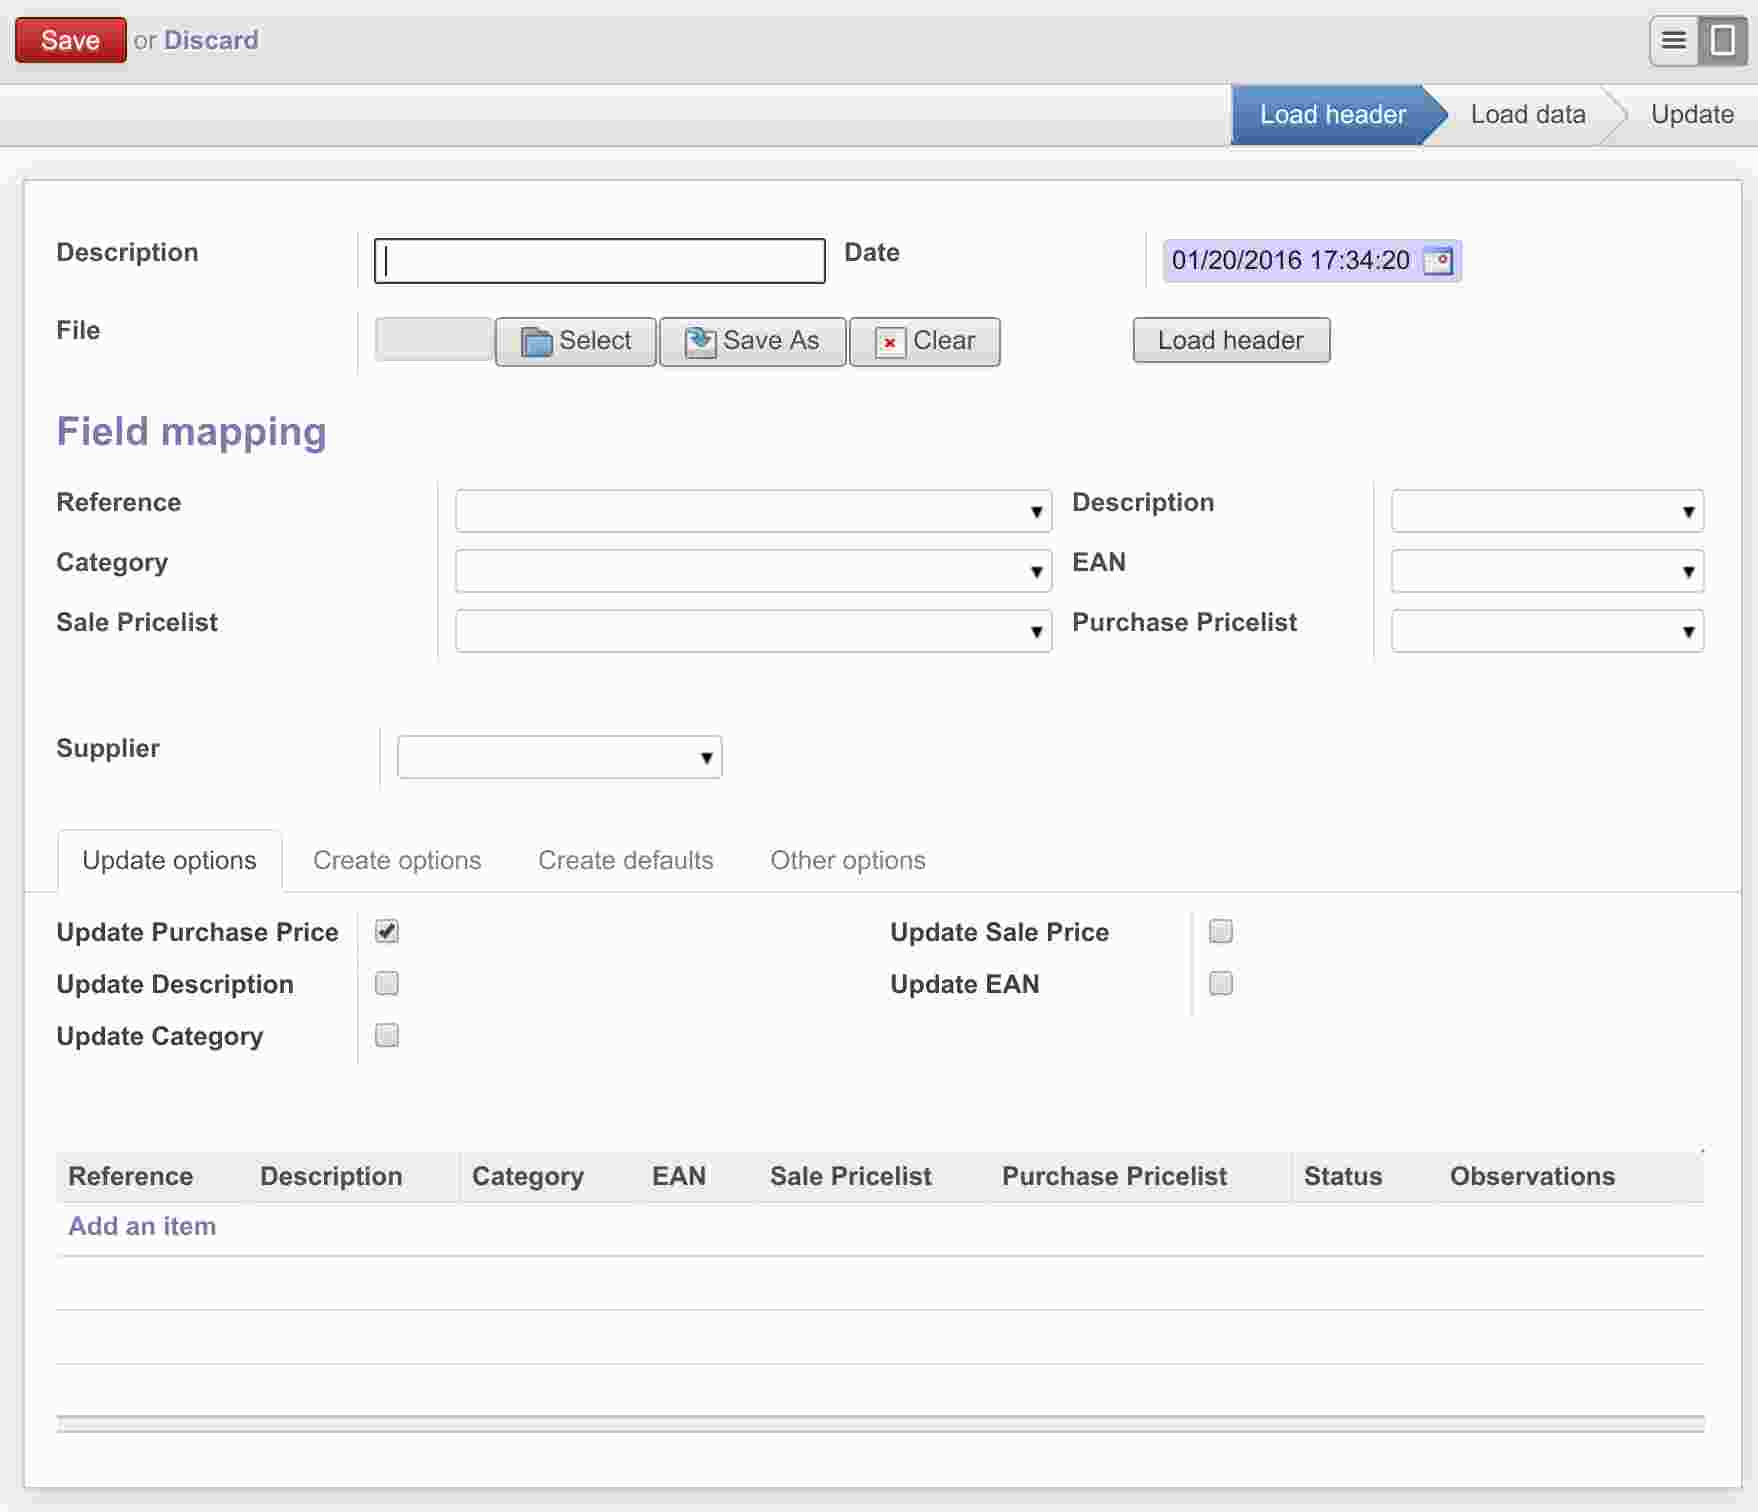
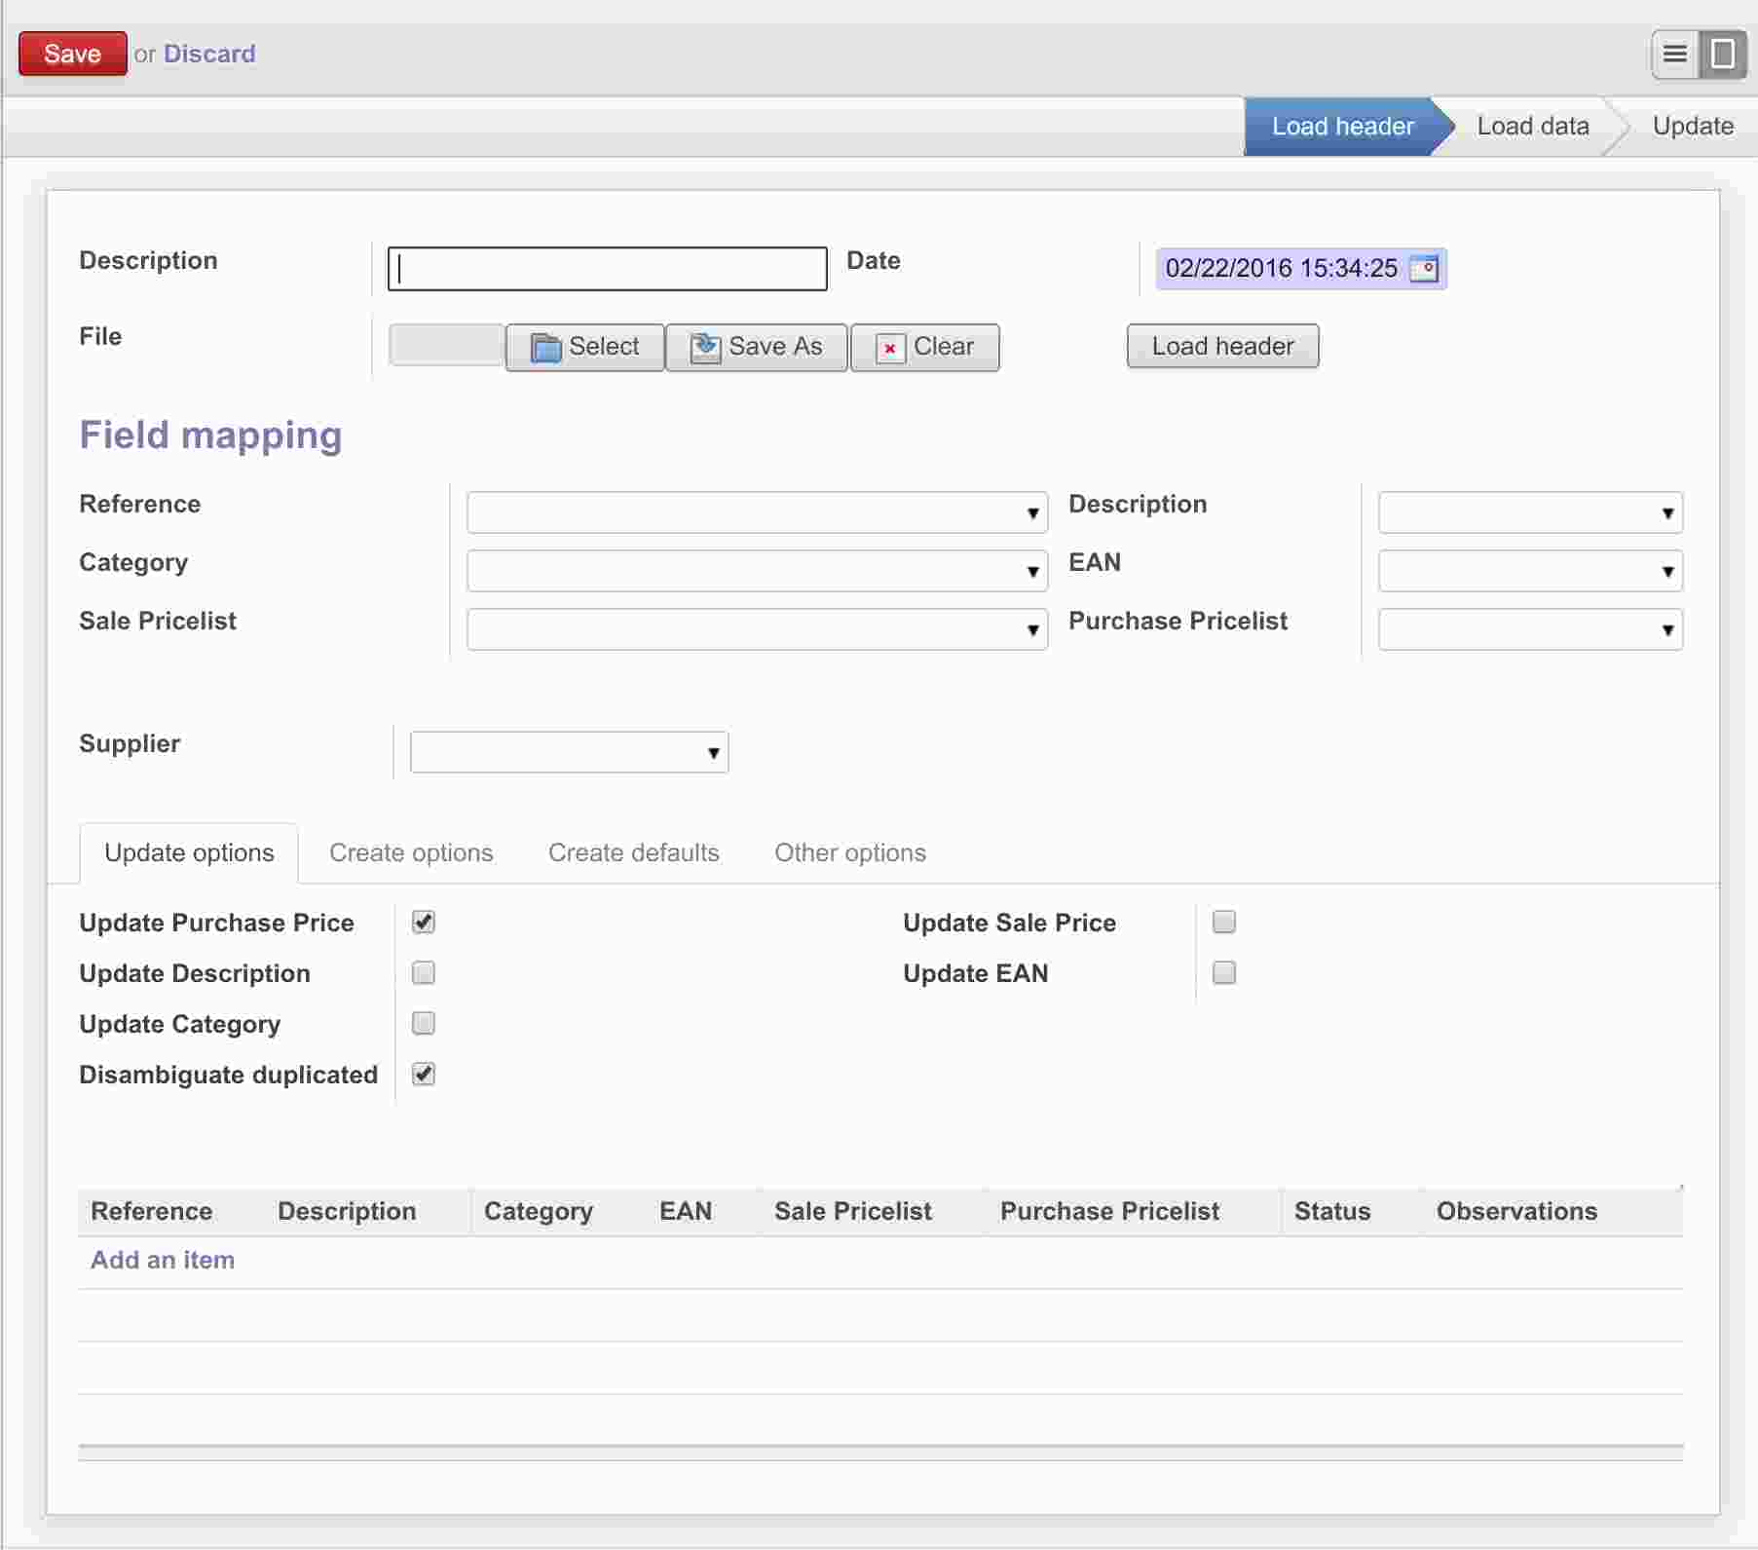
[ADD] Documentation about Disambiguate duplicated feature

diff --git a/product_import/static/description/index.html b/product_import/static/description/index.html
@@ -85,6 +85,11 @@
                     <div class="oe_demo oe_picture oe_screenshot">
                         <img src="9.jpg">
                     </div>
+                    <span>If <i>Disambiguate duplicated</i> is selected the <strong>Supplier</strong> will be used to determine which product to update in case there's more than one product with the same <i>Reference</i>.</span>
+
+                    <div class="oe_demo oe_picture oe_screenshot">
+                        <img src="91.jpg">
+                    </div>
                 </li>
                 <li>
                     <span>In case the product does not exist you can select if it must be created and how in <strong>Create
